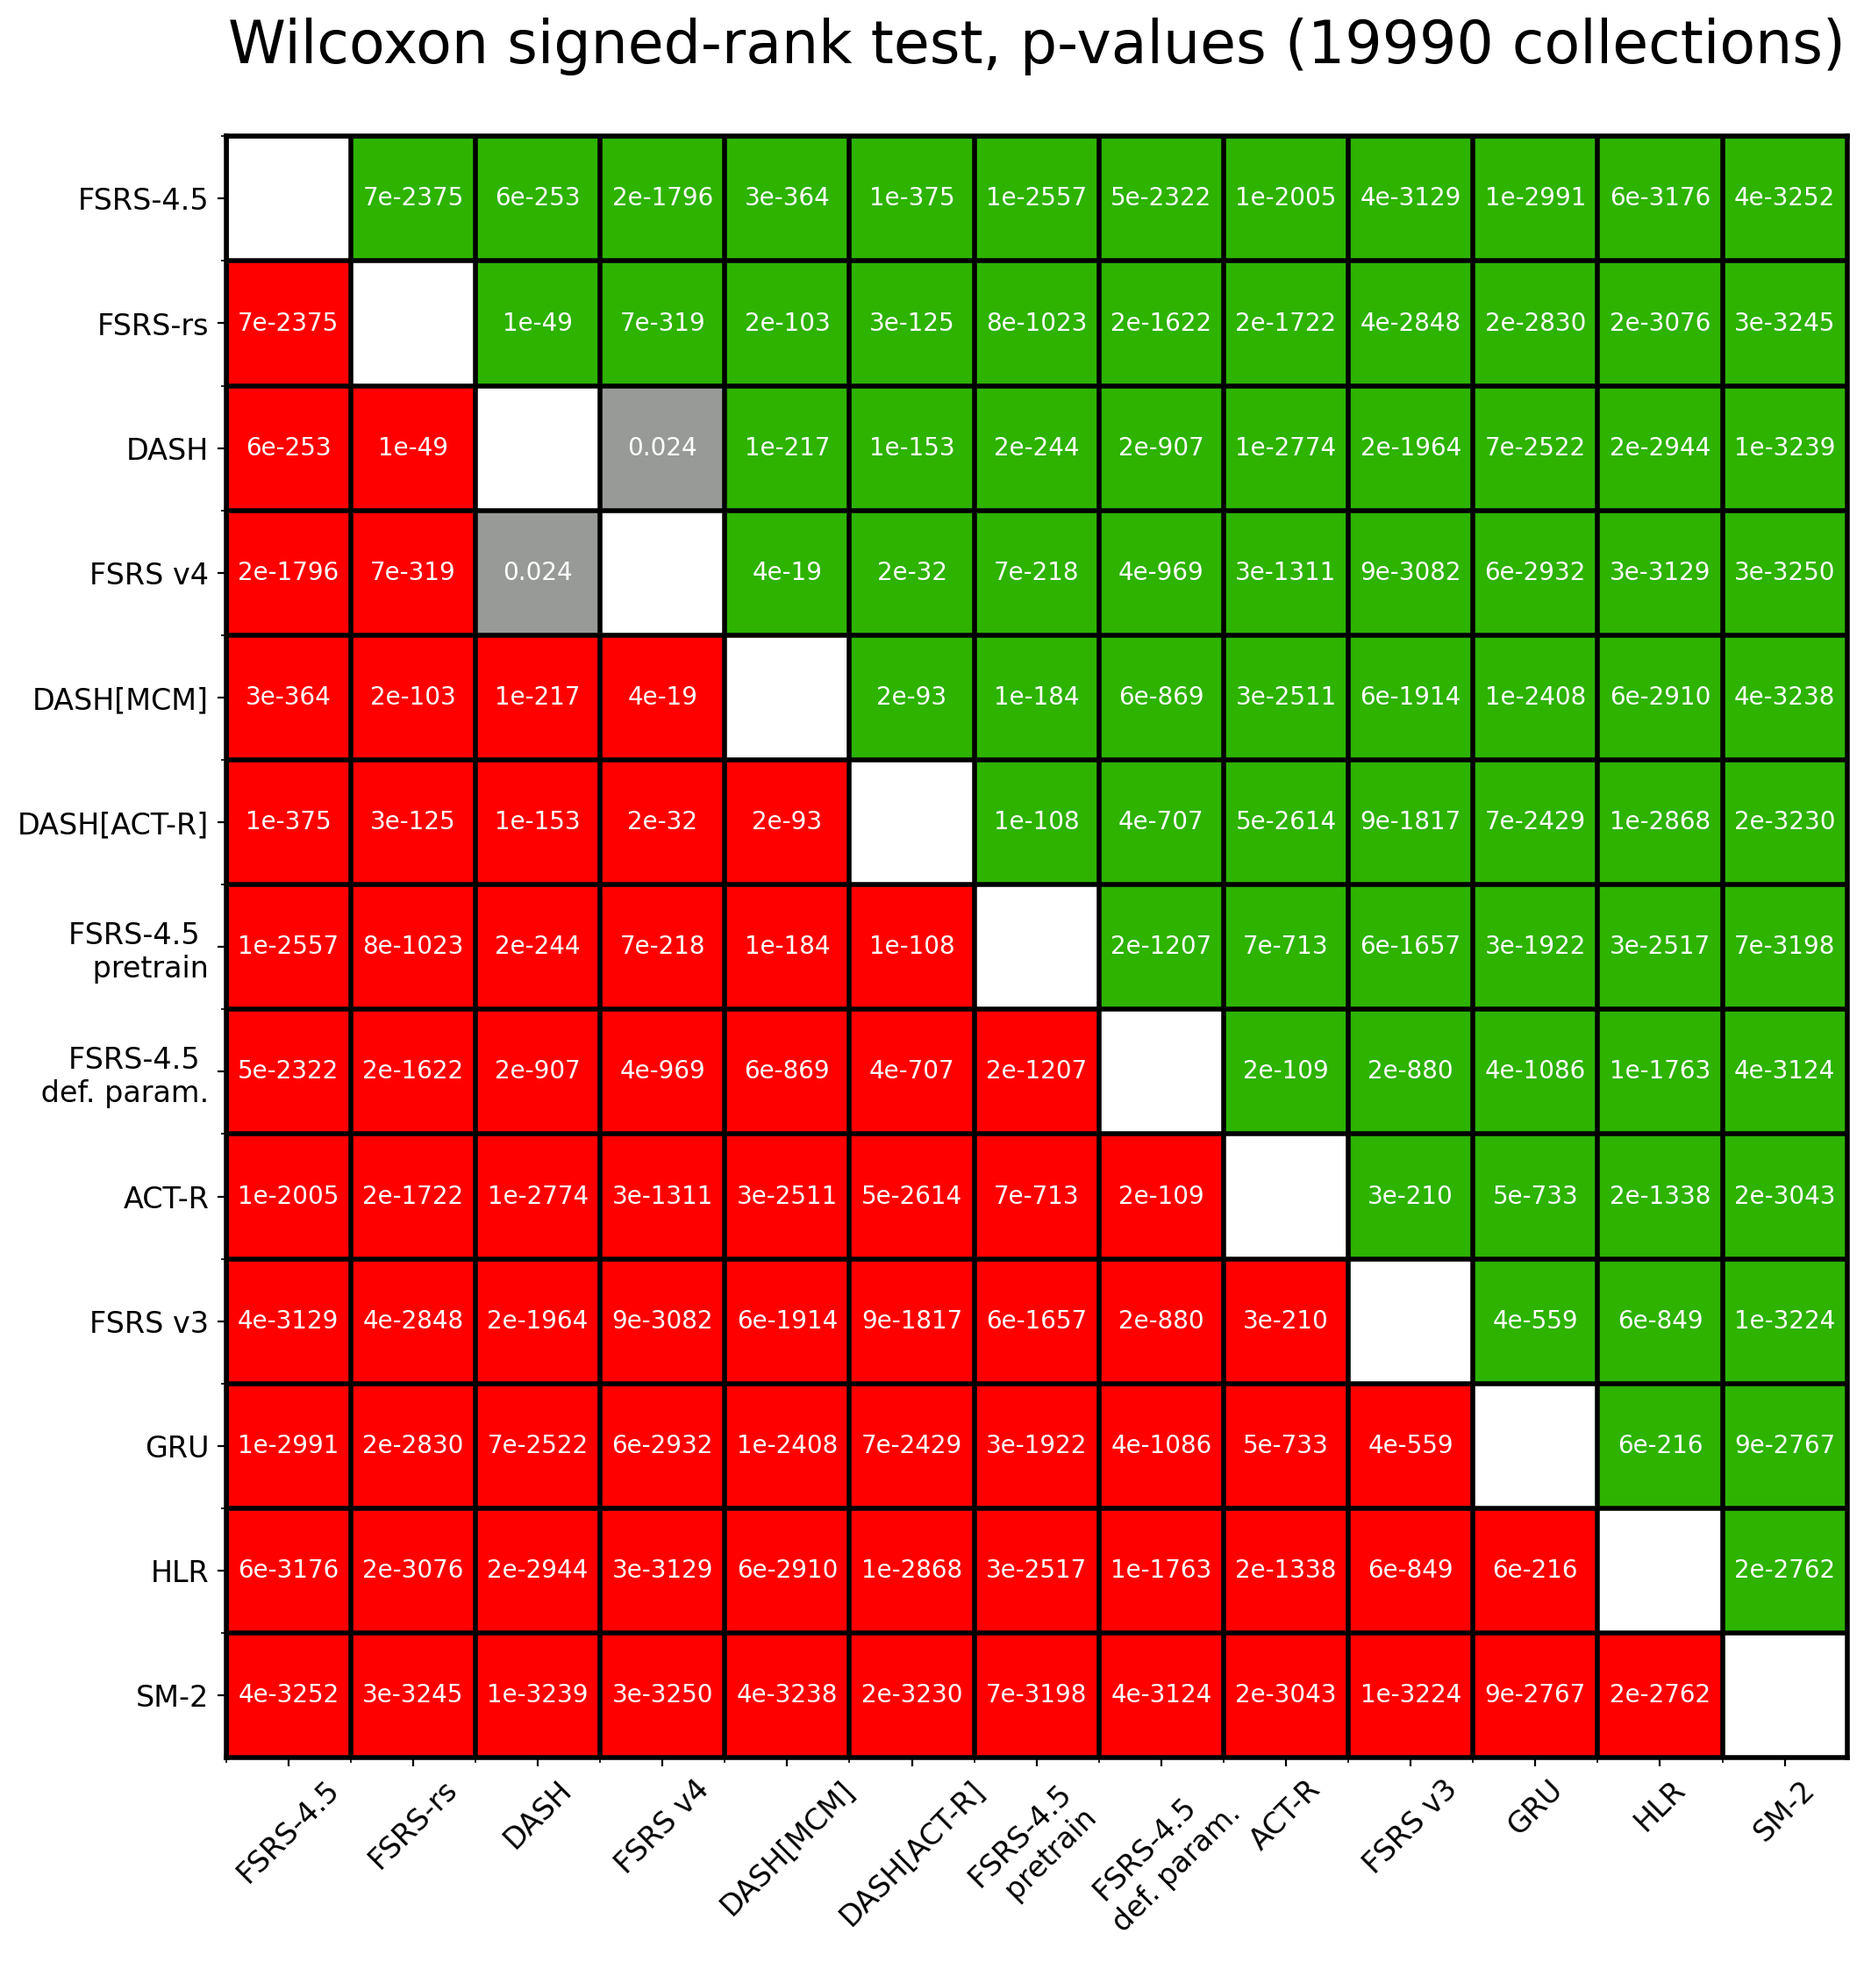
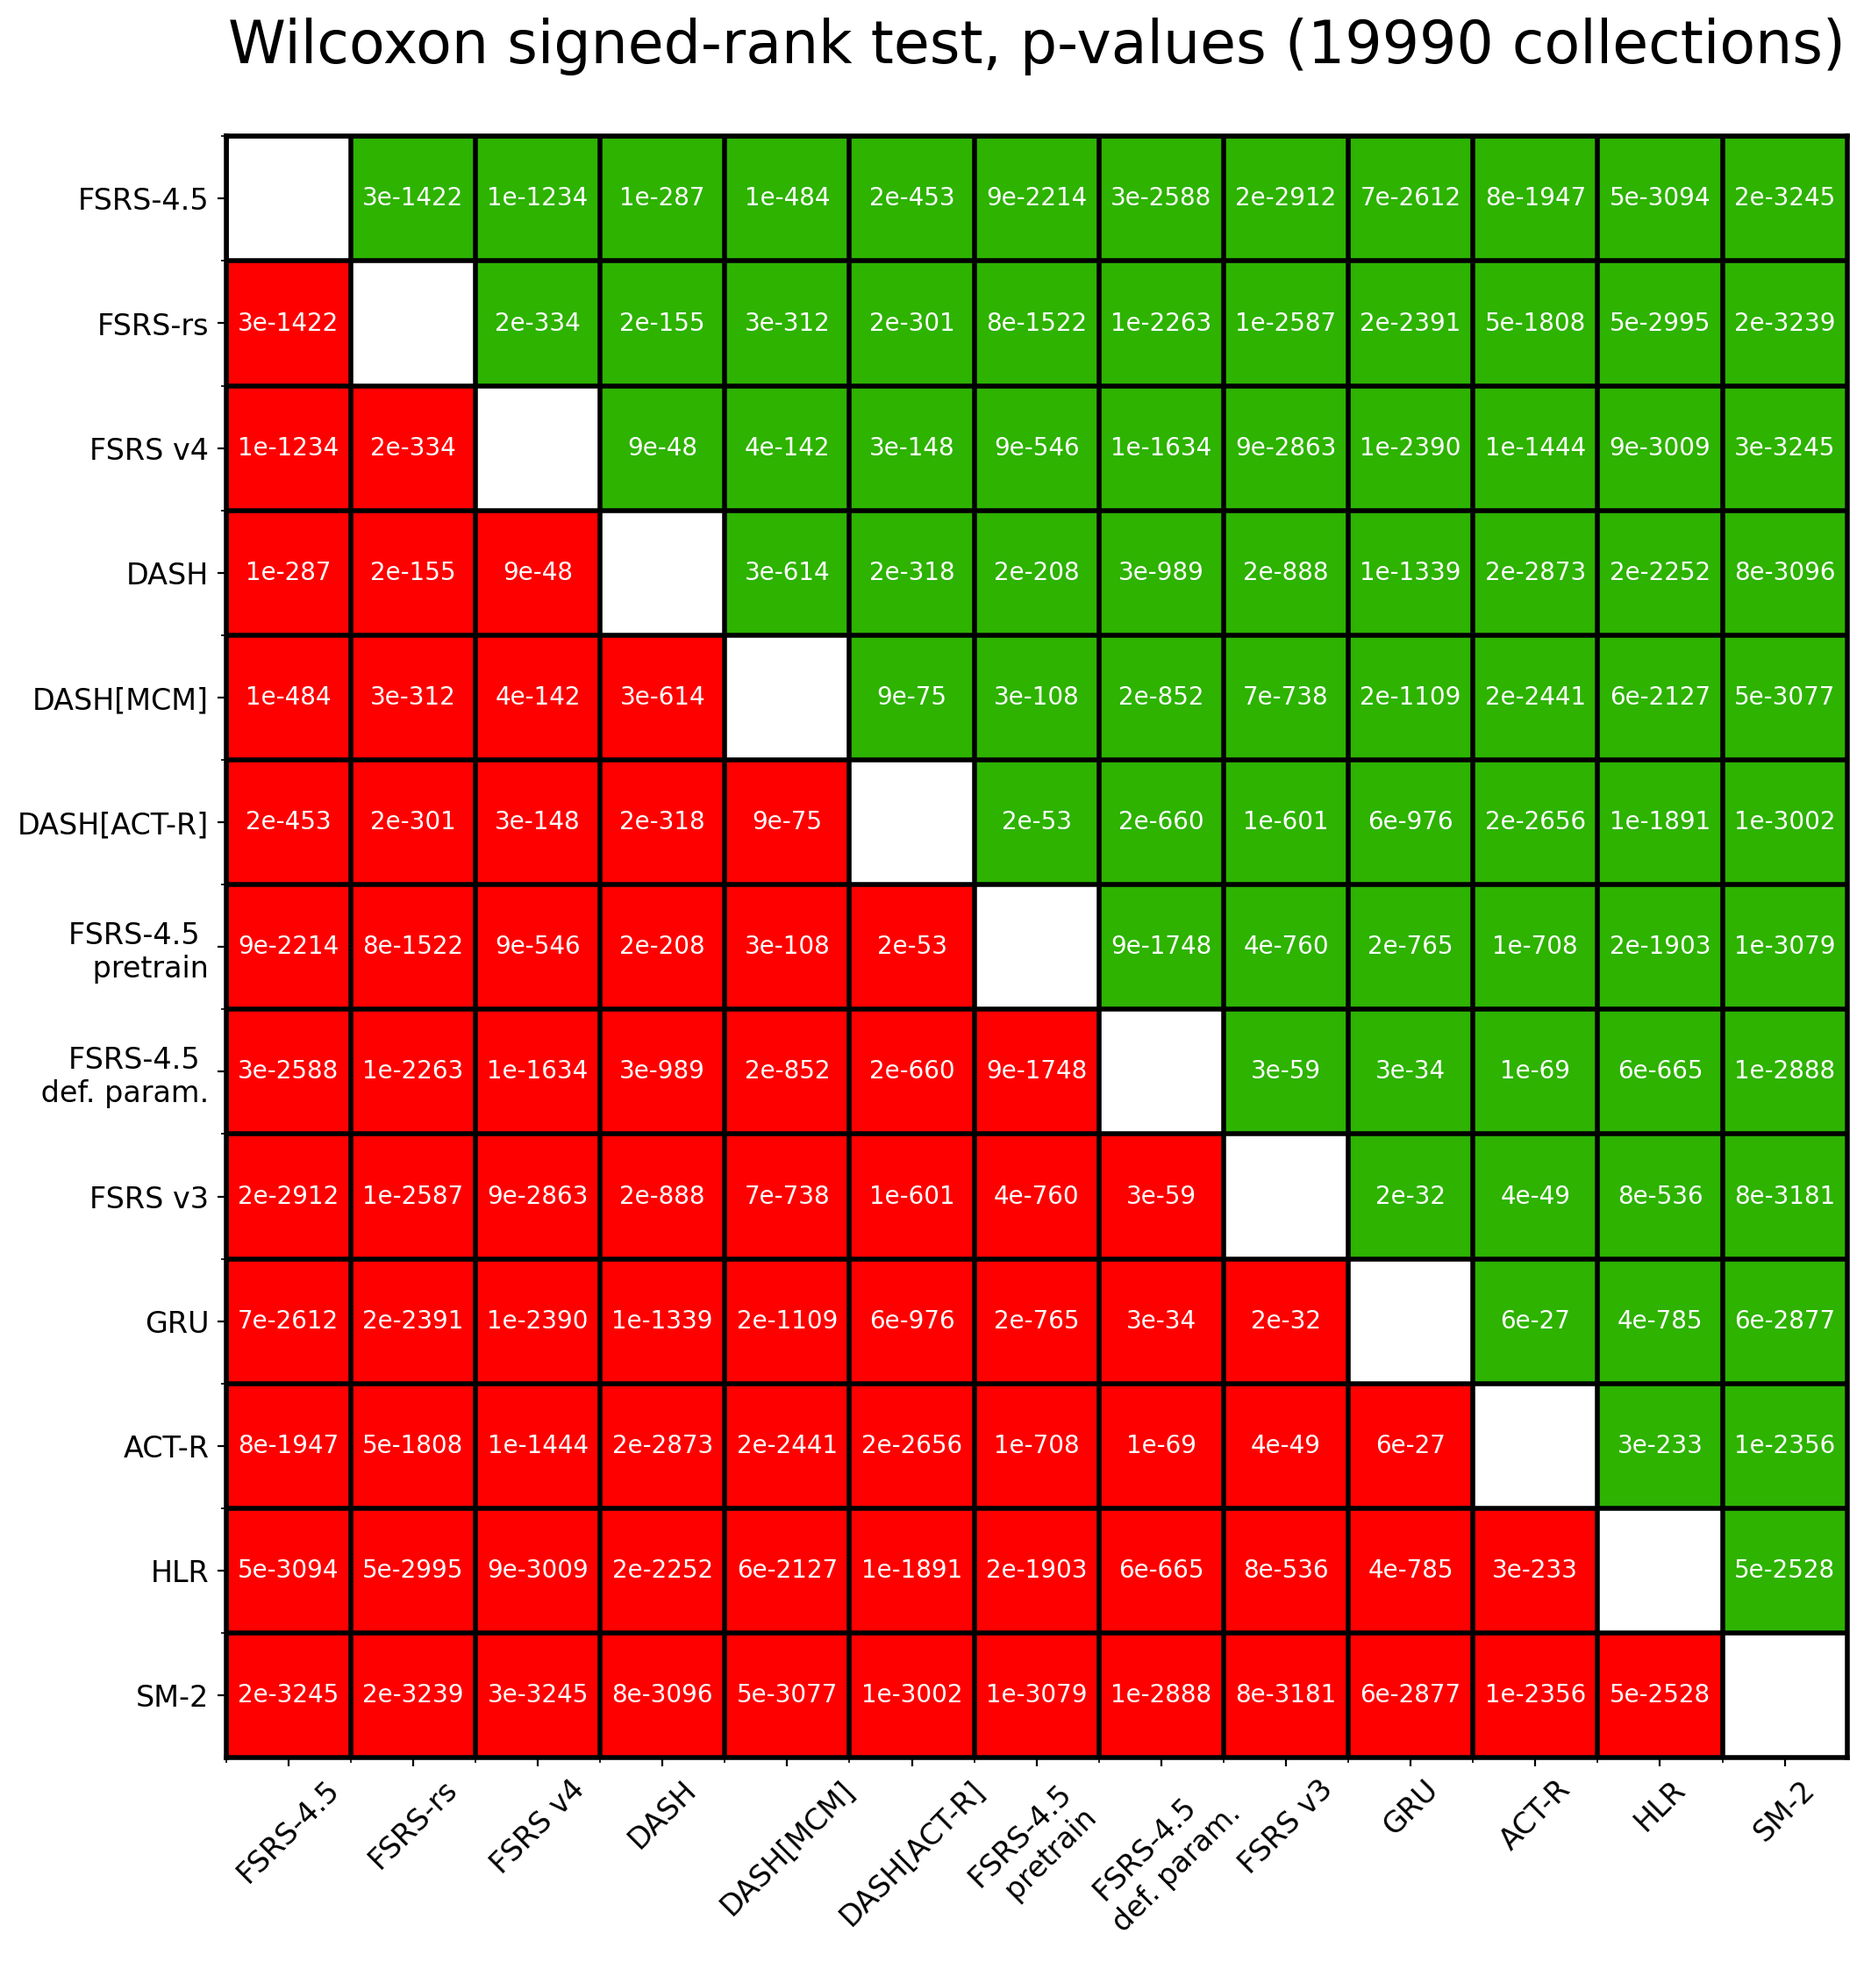
update significance table

diff --git a/significance_table.py b/significance_table.py
@@ -109,15 +109,15 @@ if __name__ == "__main__":
     models = [
         "FSRS-4.5",
         "FSRS-rs",
-        "DASH",
         "FSRSv4",
+        "DASH",
         "DASH[MCM]",
         "DASH[ACT-R]",
         "FSRS-4.5-pretrain",
         "FSRS-4.5-dry-run",
-        "ACT-R",
         "FSRSv3",
         "GRU",
+        "ACT-R",
         "HLR",
         "SM2",
     ]
@@ -160,8 +160,8 @@ if __name__ == "__main__":
             if i == j:
                 wilcox[i][j] = float("NaN")
             else:
-                df1 = df[f'{models[i]}, RMSE']
-                df2 = df[f'{models[j]}, RMSE']
+                df1 = df[f'{models[i]}, RMSE (bins)']
+                df2 = df[f'{models[j]}, RMSE (bins)']
                 if n_collections > 50:
                     result = logp_wilcox(df1[:n_collections], df2[:n_collections])[0]
                 else:
@@ -175,8 +175,8 @@ if __name__ == "__main__":
             if i == j:
                 color_wilcox[i][j] = float("NaN")
             else:
-                df1 = df[f'{models[i]}, RMSE']
-                df2 = df[f'{models[j]}, RMSE']
+                df1 = df[f'{models[i]}, RMSE (bins)']
+                df2 = df[f'{models[j]}, RMSE (bins)']
                 # we'll need the second value returned by my function to determine the color
                 approx = logp_wilcox(df1[:n_collections], df2[:n_collections])
                 if n_collections > 50:

diff --git a/README.md b/README.md
@@ -93,7 +93,7 @@ The image below shows the p-values obtained by running the Wilcoxon signed-rank 
 Almost all p-values are extremely small, many orders of magnitude smaller than 0.05. Of course, p-values this low beg the question, "Can we even trust these values?". `scipy.stats.wilcoxon` itself uses an approximation for n>50, and our modified implementation uses an approximation to return the log10(p-value) rather than the p-value itself, to avoid the limitations of 64-bit floating point numbers. So it's an approximation of an approximation. But more importantly, this test is not weighted, meaning that it doesn't take into account the fact that log loss depends on the number of reviews.
 Overall, these p-values can be trusted on a qualitative (but not quantitative) level.
 
-![Wilcoxon, 19854 collections](./plots/Wilcoxon-19990-collections.png)
+![Wilcoxon, 19990 collections](./plots/Wilcoxon-19990-collections.png)
 
 ## Median Parameters
 
